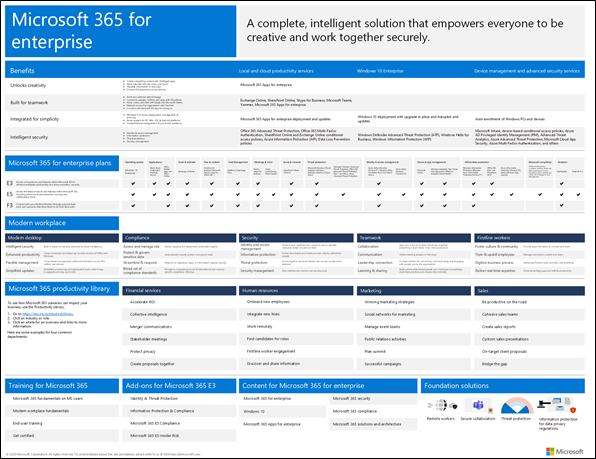
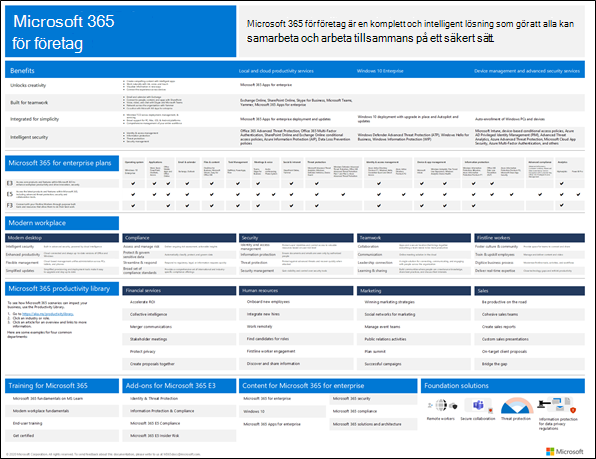
commit translated contents

Changed region(s): [[0.3926, 0.0305, 0.9664, 0.0915], [0.0, 0.0305, 0.2718, 0.122]]

diff --git a/microsoft-365/enterprise/microsoft-365-overview.md b/microsoft-365/enterprise/microsoft-365-overview.md
@@ -5,7 +5,7 @@ f1.keywords:
 ms.author: josephd
 author: JoeDavies-MSFT
 manager: laurawi
-ms.date: 09/19/2019
+ms.date: 10/15/2019
 audience: ITPro
 ms.topic: article
 ms.service: o365-solutions
@@ -13,12 +13,12 @@ localization_priority: Priority
 ms.collection: M365-subscription-management
 ms.custom: it-pro
 description: Ger en introduktion till komponenterna, planer och distributionssökvägar för Microsoft 365 för företag.
-ms.openlocfilehash: 53cc91a2b5e756fcf4ec8fcc5371795bcfb8342c
-ms.sourcegitcommit: bcb88a6171f9e7bdb5b2d8c03cd628d11c5e7bbf
+ms.openlocfilehash: d34ddd9b577f4baff4ebb77f84f48bf2b779c93c
+ms.sourcegitcommit: 53ff1fe6d6143b0bf011031eea9b85dc01ae4f74
 ms.translationtype: HT
 ms.contentlocale: sv-SE
-ms.lasthandoff: 10/14/2020
-ms.locfileid: "48464354"
+ms.lasthandoff: 10/16/2020
+ms.locfileid: "48487158"
 ---
 # <a name="microsoft-365-for-enterprise-overview"></a>Översikt över Microsoft 365 för företag
 
@@ -104,21 +104,21 @@ Du kan också [ladda ner denna affisch](https://github.com/MicrosoftDocs/microso
 
 ## <a name="plan-for-and-deploy"></a>Planera och distribuera
 
-Det finns tre sätt att distribuera produkter, funktioner och komponenter i Microsoft 365 för företag:
+Det finns tre sätt att planera och distribuera produkter, funktioner och komponenter i Microsoft 365 för företag:
 
-- I samarbete med FastTrack:
+- I samarbete med FastTrack
 
    Med FastTrack hjälper Microsoft-tekniker dig att flytta till molnet i din egen takt. Se [FastTrack för Microsoft 365](https://fasttrack.microsoft.com/microsoft365).
 
-- Med hjälp av Microsoft Consulting Services eller en [Microsoft-partner](https://partner.microsoft.com/):
+- Med hjälp av Microsoft Consulting Services eller en [Microsoft-partner](https://partner.microsoft.com/)
 
    Konsulter kan analysera din nuvarande infrastruktur och hjälpa dig att utveckla en plan för att införliva all programvara och alla tjänster från Microsoft 365 för företag..
 
-- Gör det själv:
+- Gör det själv
 
-   Börja med [nätverksöversikt](networking-roadmap-microsoft-365.md)för att bygga ut infrastruktur- och produktivitetsarbetsbelastningar.
+   Kom igång med [nätverksöversikt](networking-roadmap-microsoft-365.md) för att bygga ut eller verifiera din befintliga infrastruktur och produktivitetsbelastningar.
 
-En fiktiv men representativ multinationell organisation, har distribuerat Microsoft 365 för företag., se [Contoso Corporation](contoso-overview.md).
+För ett exempel på hur en fiktiv men representativ multinationella organisation har distribuerat Microsoft 365 för företag, finns i [fallstudien Contoso Corporation](contoso-overview.md).
 
 ## <a name="additional-microsoft-365-products"></a>Ytterligare Microsoft 365-produkter
 
